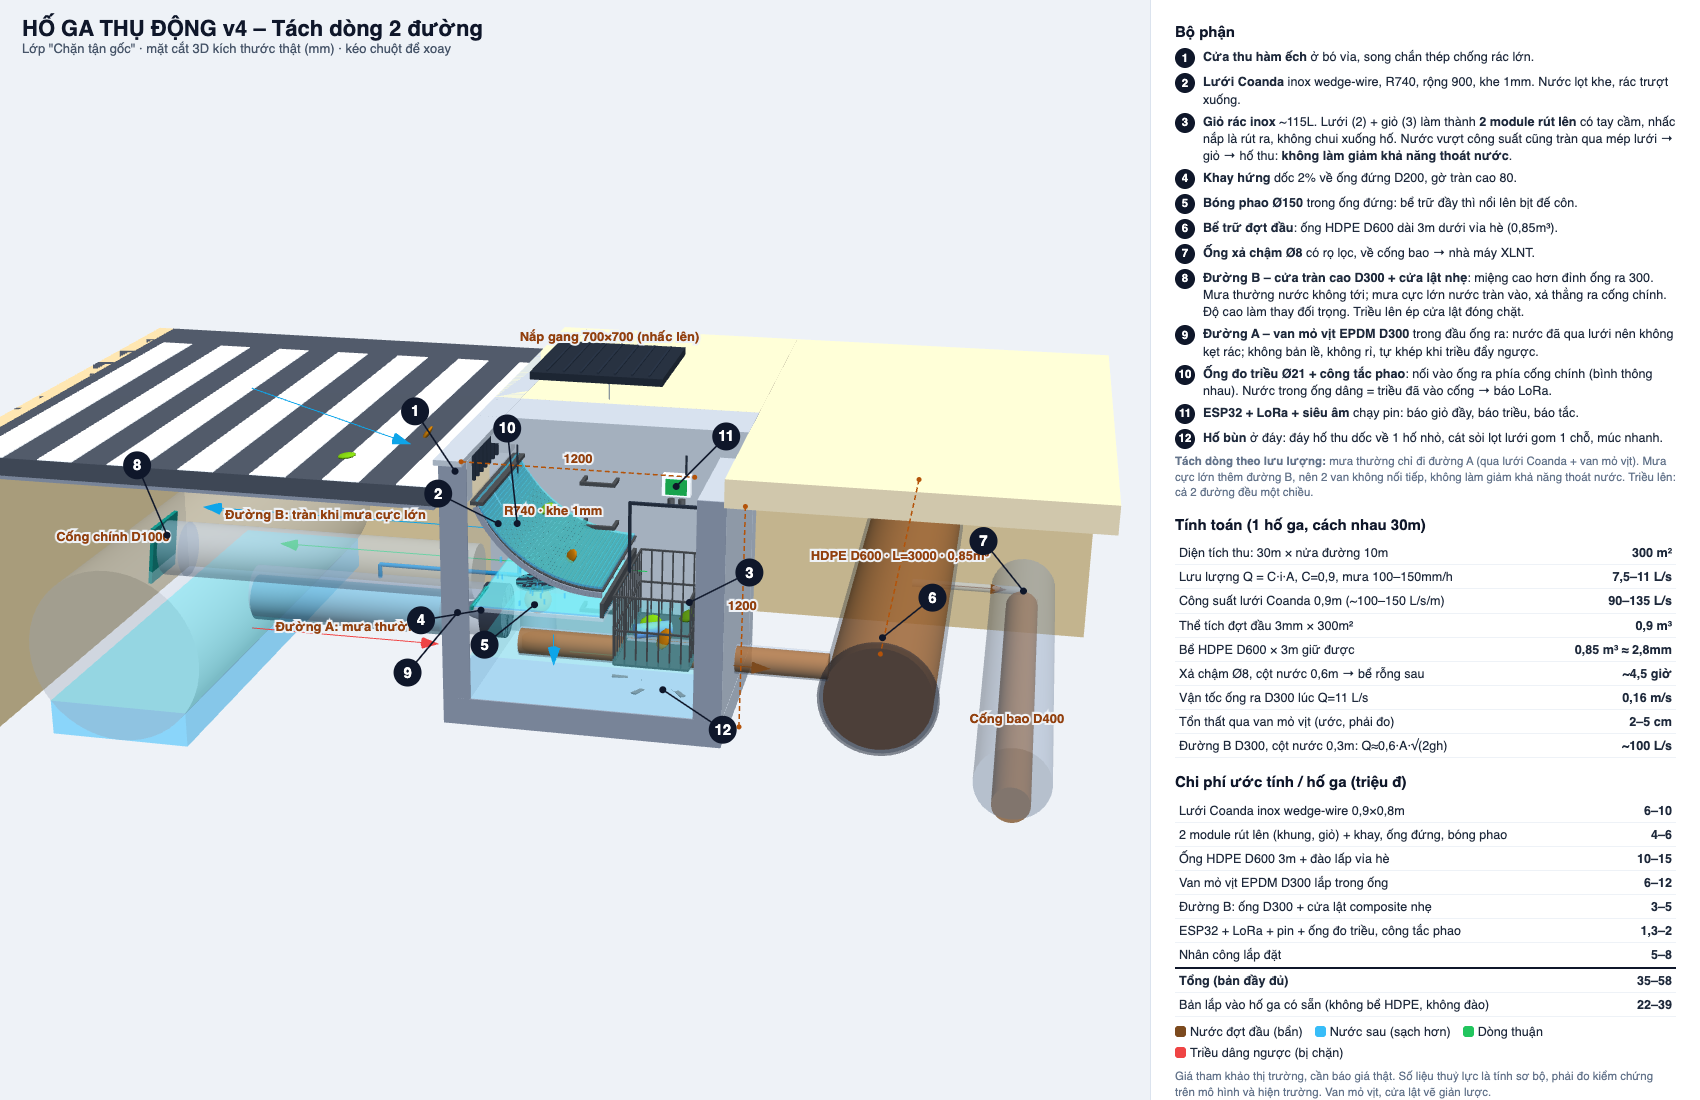
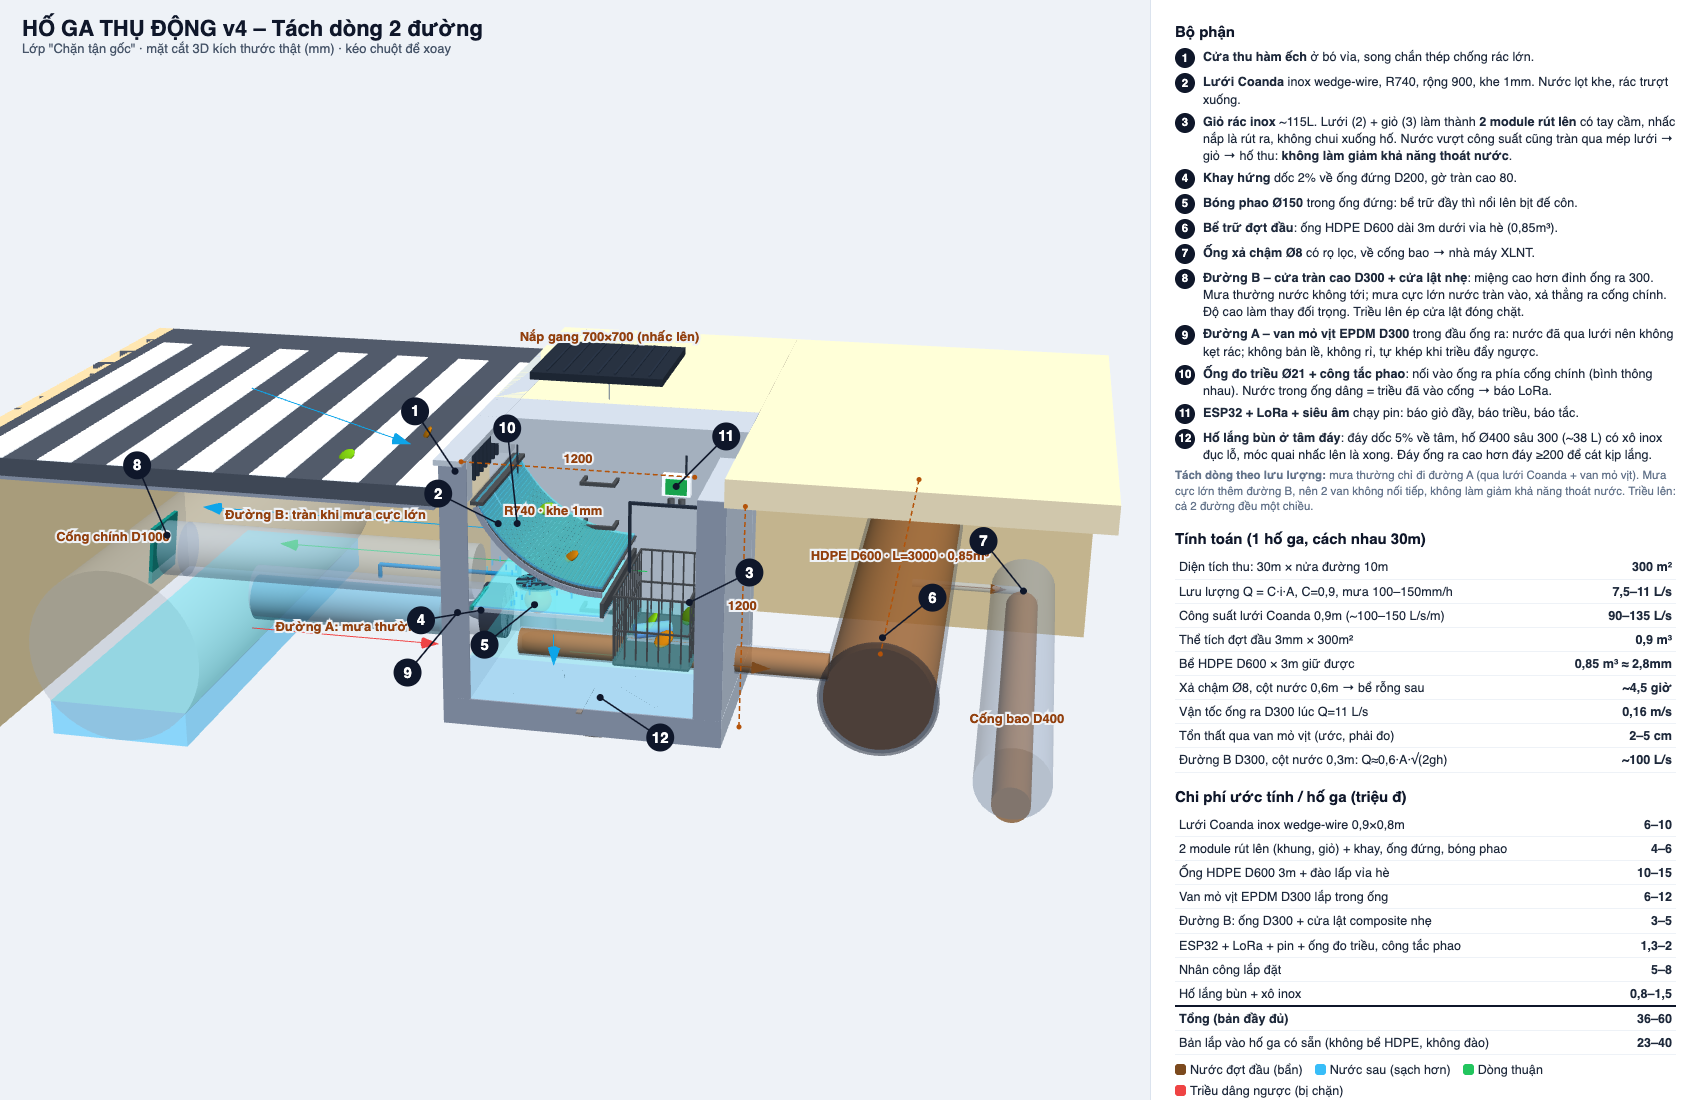
Hố ga v4: thêm mục 1c hố lắng bùn ở tâm đáy (Ø400 sâu 300, xô inox), cập nhật 3D và chi phí

diff --git a/aquasentinel-2/hoga3d_v4.html b/aquasentinel-2/hoga3d_v4.html
@@ -26,7 +26,7 @@ table{width:100%;border-collapse:collapse}td{padding:3px 4px;border-bottom:1px s
 <div class="it"><div class="n">9</div><div><b>Đường A – van mỏ vịt EPDM D300</b> trong đầu ống ra: nước đã qua lưới nên không kẹt rác; không bản lề, không rỉ, tự khép khi triều đẩy ngược.</div></div>
 <div class="it"><div class="n">10</div><div><b>Ống đo triều Ø21 + công tắc phao</b>: nối vào ống ra phía cống chính (bình thông nhau). Nước trong ống dâng = triều đã vào cống → báo LoRa.</div></div>
 <div class="it"><div class="n">11</div><div><b>ESP32 + LoRa + siêu âm</b> chạy pin: báo giỏ đầy, báo triều, báo tắc.</div></div>
-<div class="it"><div class="n">12</div><div><b>Hố bùn</b> ở đáy: đáy hố thu dốc về 1 hố nhỏ, cát sỏi lọt lưới gom 1 chỗ, múc nhanh.</div></div>
+<div class="it"><div class="n">12</div><div><b>Hố lắng bùn ở tâm đáy</b>: đáy dốc 5% về tâm, hố Ø400 sâu 300 (~38 L) có xô inox đục lỗ, móc quai nhấc lên là xong. Đáy ống ra cao hơn đáy ≥200 để cát kịp lắng.</div></div>
 <div class="note" style="margin:2px 0 4px"><b>Tách dòng theo lưu lượng:</b> mưa thường chỉ đi đường A (qua lưới Coanda + van mỏ vịt). Mưa cực lớn thêm đường B, nên 2 van không nối tiếp, không làm giảm khả năng thoát nước. Triều lên: cả 2 đường đều một chiều.</div>
 <h2>Tính toán (1 hố ga, cách nhau 30m)</h2>
 <table>
@@ -49,8 +49,9 @@ table{width:100%;border-collapse:collapse}td{padding:3px 4px;border-bottom:1px s
 <tr><td>Đường B: ống D300 + cửa lật composite nhẹ</td><td>3–5</td></tr>
 <tr><td>ESP32 + LoRa + pin + ống đo triều, công tắc phao</td><td>1,3–2</td></tr>
 <tr><td>Nhân công lắp đặt</td><td>5–8</td></tr>
-<tr class="tot"><td>Tổng (bản đầy đủ)</td><td>35–58</td></tr>
-<tr><td>Bản lắp vào hố ga có sẵn (không bể HDPE, không đào)</td><td>22–39</td></tr>
+<tr><td>Hố lắng bùn + xô inox</td><td>0,8–1,5</td></tr>
+<tr class="tot"><td>Tổng (bản đầy đủ)</td><td>36–60</td></tr>
+<tr><td>Bản lắp vào hố ga có sẵn (không bể HDPE, không đào)</td><td>23–40</td></tr>
 </table>
 <div class="leg"><span style="--c:#7c4a1e">Nước đợt đầu (bẩn)</span><span style="--c:#38bdf8">Nước sau (sạch hơn)</span><span style="--c:#22c55e">Dòng thuận</span><span style="--c:#ef4444">Triều dâng ngược (bị chặn)</span></div>
 <div class="note">Giá tham khảo thị trường, cần báo giá thật. Số liệu thuỷ lực là tính sơ bộ, phải đo kiểm chứng trên mô hình và hiện trường. Van mỏ vịt, cửa lật vẽ giản lược.</div>
@@ -120,7 +121,7 @@ cyl(15,15,-150,-55,30,pvc,'x');cyl(15,-150,-162,-55,30,pvc,'x');
 const fp=new THREE.Group();fp.position.set(-163,-40,30);fp.rotation.z=-.12;S.add(fp);const fl=box(2,32,32,0,-15,0,M(0x0f766e,{roughness:.5}));S.remove(fl);fp.add(fl);
 bx(14,16,-71,-69,14,46,M(0x0f766e));
 // ⑫ hố bùn ở đáy
-cyl(12,-134,-120.5,110,0,M(0x57534e),'y');for(let a=0;a<6;a++){const o=box(30,1,3,110+13*Math.cos(a),-121,13*Math.sin(a),M(0x78716c));o.rotation.y=-a;o.rotation.z=.08}
+cyl(20,-150,-120.5,75,0,M(0x57534e),'y');cyl(18,-148,-122,75,0,tr(0xcbd5e1,.85),'y');cyl(15,-147,-140,75,0,M(0xa16207),'y');for(let a=0;a<8;a++){const o=box(34,1,3,75+38*Math.cos(a*Math.PI/4),-120.6,38*Math.sin(a*Math.PI/4),M(0x78716c));o.rotation.y=-a*Math.PI/4}
 // ⑨ van mỏ vịt EPDM trong đầu ống ra
 const rub=M(0x111827,{roughness:.6});cyl(15.5,15,2,-100,-30,rub,'x');
 const db=new THREE.Mesh(new THREE.ConeGeometry(14.5,24,32,1,true),M(0x111827,{roughness:.6,side:THREE.DoubleSide}));db.rotation.z=Math.PI/2;db.scale.set(.3,1,1);db.position.set(-10,-100,-30);S.add(db);
@@ -138,7 +139,7 @@ arrow([-120,30,0],[-30,4,0],0x0ea5e9);arrow([60,-80,48],[60,-98,48],0x0ea5e9);ar
 arrow([95,-70,-30],[-120,-70,-30],0x22c55e);arrow([20,-30,30],[-140,-30,30],0x0ea5e9);arrow([-140,-124,-30],[-26,-124,-30],0xef4444);arrow([250,-127,-200],[290,-127,-200],0x7c4a1e);arrow([75,30,-20],[75,45,-20],0x64748b,6,5);
 const ctl=new THREE.OrbitControls(C,R.domElement);ctl.target.copy(T);ctl.update();
 const ov=document.getElementById('ov'),P=p=>{const v=new THREE.Vector3(...p).project(C);return[(v.x+1)/2*W,(1-v.y)/2*H]};
-const labels=[[1,[3,0,30],[-40,-60]],[2,[30,-22,45],[-60,-30]],[3,[130,-60,38],[60,-30]],[4,[20,-71,45],[-60,10]],[5,[40,-80,8],[-50,40]],[6,[230,-70,40],[50,-40]],[7,[300,-127,-200],[-40,-50]],[8,[-162,-48,30],[-30,-70]],[9,[-12,-100,-21],[-50,60]],[10,[22,-46,-26],[-10,-95]],[11,[108,-24,-44],[50,-50]],[12,[110,-127,0],[60,40]]];
+const labels=[[1,[3,0,30],[-40,-60]],[2,[30,-22,45],[-60,-30]],[3,[130,-60,38],[60,-30]],[4,[20,-71,45],[-60,10]],[5,[40,-80,8],[-50,40]],[6,[230,-70,40],[50,-40]],[7,[300,-127,-200],[-40,-50]],[8,[-162,-48,30],[-30,-70]],[9,[-12,-100,-21],[-50,60]],[10,[22,-46,-26],[-10,-95]],[11,[108,-24,-44],[50,-50]],[12,[75,-135,0],[60,40]]];
 const dims=[[[15,15,60],[135,15,60],'1200'],[[160,-120,55],[160,0,55],'1200'],[[230,-75,-250],[230,-75,50],'HDPE D600 · L=3000 · 0,85m³'],[[-70,-36,30],[-70,-36,30],'Đường B: tràn khi mưa cực lớn'],[[-80,-125,-30],[-80,-125,-30],'Đường A: mưa thường'],[[-185,-50,50],[-185,-50,50],'Cống chính D1000'],[[300,-110,50],[300,-110,50],'Cống bao D400'],[[75,58,-20],[75,58,-20],'Nắp gang 700×700 (nhấc lên)'],[[60,-18,48],[60,-18,48],'R740 · khe 1mm']];
 function draw(){R.render(S,C);let s='';
  for(const[a,b,t]of dims){const[x1,y1]=P(a),[x2,y2]=P(b);if(x1!=x2||y1!=y2)s+=`<line x1="${x1}" y1="${y1}" x2="${x2}" y2="${y2}" stroke="#b45309" stroke-width="1.5" stroke-dasharray="5 3"/><circle cx="${x1}" cy="${y1}" r="2.5" fill="#b45309"/><circle cx="${x2}" cy="${y2}" r="2.5" fill="#b45309"/>`;
